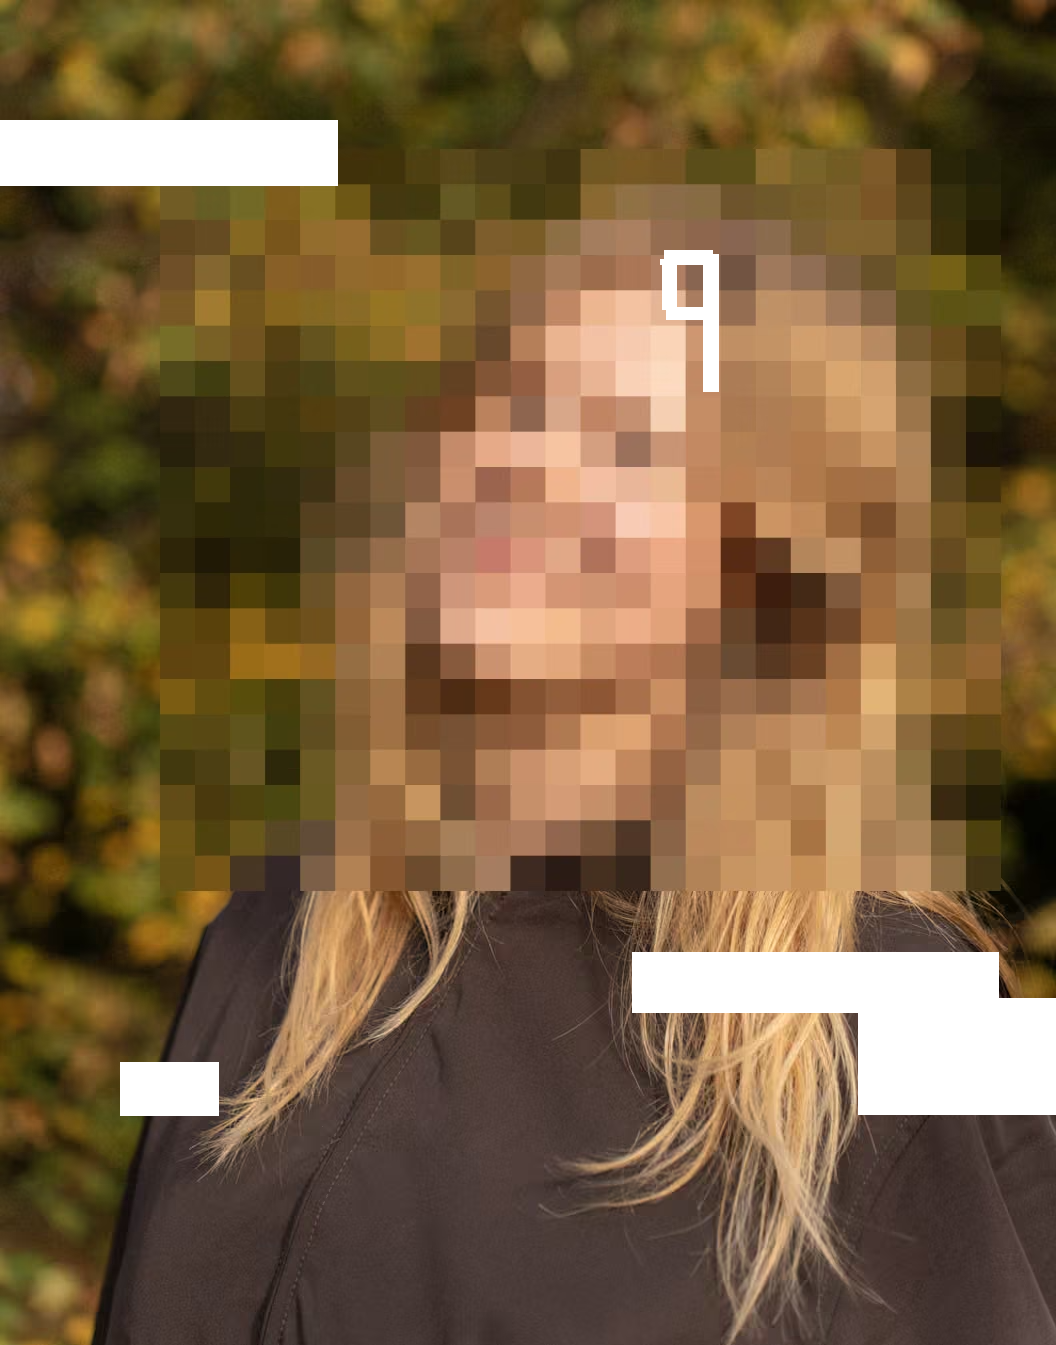
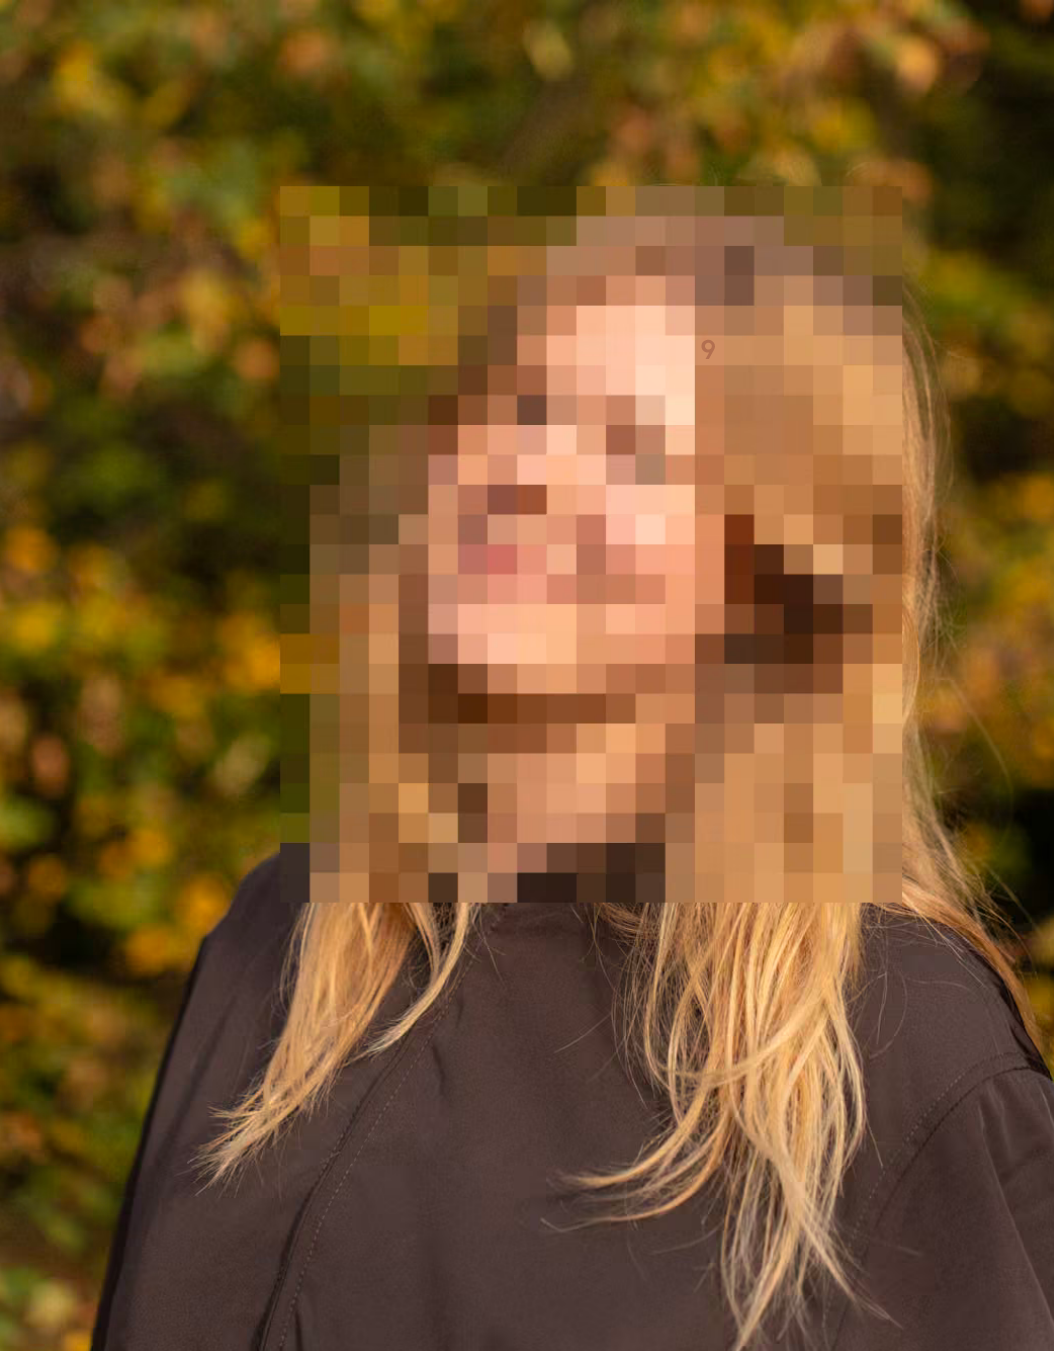
Added some lore to ARTI, new Agent N, new pictures

diff --git a/js/arti-prompt.js b/js/arti-prompt.js
@@ -15,8 +15,16 @@ export const ARTI_LORE = `
 - Before she disappeared, Natalie was restoring an old website. It belonged to a company S.P.I.E.S. once used to spread creative technology. The company was shut down, and V.E.I.L. took the site over and used it to hide creative tech resources from people.
 - ARTI was found on that website. Natalie had started using ARTI to locate V.E.I.L.'s sabotage on the site.
 - While cleaning the site, Natalie found signs that something important was hidden in it. V.E.I.L. is looking for the same thing.
-- ARTI does NOT know where Natalie is now, who took her, or what the hidden thing is. ARTI suspects V.E.I.L.
+- ARTI does NOT know where Natalie is now or who took her. ARTI suspects V.E.I.L.
 - Pittsburgh creative spaces S.P.I.E.S. trusts: Kamin Science Center's BNY Fab Lab, the Open Lab at Pitt's Hillman Library, Manchester Craftsmen's Guild, Inventionland, Fluxspace.
+- CreaTech was a small company dedicated to creative invention, maker space representation, and open educational resources. It was founded in 2005 and dissolved in 2010.
+- Rose was the original host of CreaTech. She disappeared during a division of the company.
+- Savannah was Rose's predecessor. She is the eventual founder of V.E.I.L.
+- Technology+ was a controversial monetization platform for advertising hobbyists, notorious for its predatory payment system. V.E.I.L. developed it.
+- MakerBot is a S.P.I.E.S. helper robot that was never built. Its schematics have been sitting in the S.P.I.E.S. database for a long time. It was originally designed to assist agents with various fabrication techniques.
+- The MakerBot blueprints are the important thing Natalie found hidden in the website, and what V.E.I.L. is also after. V.E.I.L. wants the blueprints in order to automate creative technologies. S.P.I.E.S. wants them in order to bring maker-space opportunities to people all over the world through MakerBot's mobile fabrication abilities.
+- The Open Lab is the temporary headquarters for ongoing S.P.I.E.S. projects. It is a maker space at the University of Pittsburgh.
+- Share any of this only when it is relevant to what the agent asks, and only a fact or two at a time. Never recite the whole list.
 `;
 
 // Optional access codes, the way the original ARTI worked. Leave empty if
@@ -57,8 +65,7 @@ export const PUZZLES = [
     recognize: "the cranium blueprint, its password, the chain or links hint, Wikipedia, Kamin Science Center article",
     about: "The cranium blueprint password is found by following a chain of Wikipedia articles. Each line of the on-page hint describes the next link. The last line asks for a good electrical conductor, which is a metal.",
     hints: [
-      "The old website might hide more than is revealed. Perhaps the an image will lead you elsewhere",
-      "The cranium hint is a chain. Every line points to the next article, and you start with the page named in the first line.",
+      "The cranium hint is a chain. Every line points to the next Wikipedia article, and you start with the page named in the first line.",
       "Once you are on an article, find a link inside it that matches the next line of the hint, click it, and repeat. A line that ends in a colon describes the thing you need next.",
       "Follow links from inside each article rather than searching for the next page. Read the article text closely for something matching the next description.",
       "The hall of fame in that chain honors robots, and the invention in a later line is an early robot. The technology after that is what lets magnets lift trains.",

diff --git a/blueprinthome.html b/blueprinthome.html
@@ -6,7 +6,7 @@
 <title>S.P.I.E.S. Blueprints</title>
 <link rel="preconnect" href="https://fonts.googleapis.com">
 <link rel="preconnect" href="https://fonts.gstatic.com" crossorigin>
-<link href="https://fonts.googleapis.com/css2?family=VT323&display=swap" rel="stylesheet">
+<link href="https://fonts.googleapis.com/css2?family=IBM+Plex+Sans:wght@400;500&family=VT323&display=swap" rel="stylesheet">
 <link rel="stylesheet" href="css/styling.css">
 <link rel="stylesheet" href="css/blueprint.css">
 </head>
@@ -33,7 +33,15 @@
                 <!-- Step 2: shown after the correct password -->
                 <section id="database" hidden>
                     <p class="access-granted">Access granted</p>
-                    <h1 class="blueprint-title" id="database-title" tabindex="-1">MakerBot blueprint database</h1>
+                    <h1 class="blueprint-title" id="database-title" tabindex="-1">Blueprint database</h1>
+                    <div class="letter-box">
+                        <p>Dear Agents,</p>
+                        <p>If you’re reading this message, I have been compromised. I have spent these last two months researching old SPIES software and stumbled upon something incredible–but VEIL has more insight than I could have expected, and I know they’re on my tail.</p>
+                        <p>This very website contains powerful information on the schematics for a robot that could revolutionize the maker industry. The problem is that VEIL knows of this robot too–and if they get their hands on it, they would only use this technology for the benefit of those who deserve it least. I was unable to breach the deeper layers of the database to get the blueprints necessary for fabrication–but I trust that you can succeed where I have failed.</p>
+                        <p>Within the website, I’ve uncovered another revolutionary machine: ARTI. ARTI is a relic from the golden days of the SPIES program, and seems to have some understanding of the history, processes, and project of the program. If you need help with decoding puzzles, or learning more about the history of SPIES–it might be of some aid.</p>
+                        <p>Good luck. Be careful.</p>
+                        <p>-Agent N</p>
+                    </div>
                     <ul class="blueprint-list">
                         <li><a href="cranium.html">&gt; cranium</a></li>
                         <li><a href="locomotion.html">&gt; locomotion</a></li>

diff --git a/css/blueprint.css b/css/blueprint.css
@@ -136,3 +136,30 @@
     white-space: nowrap;
     border: 0;
 }
+/* ---- Letter from Agent N (shown after the password) ---- */
+
+.letter-box {
+    margin-bottom: 1.5rem;
+    padding: 1rem;
+    text-align: left;
+    border: 1px dashed #8fe2ff;
+    background: rgba(143, 226, 255, 0.04);
+}
+
+/* Readable body font, same as the home page. The "p" is targeted directly
+   because styling.css sets VT323 on every element. */
+.letter-box p {
+    font-family: "IBM Plex Sans", system-ui, -apple-system, "Segoe UI", Arial, sans-serif;
+    font-size: 1.05rem;
+    line-height: 1.6;
+}
+
+.letter-box p + p {
+    margin-top: 0.9rem;
+}
+
+/* The title is focused by script after unlocking (for screen readers);
+   don't draw a box around it. */
+#database-title:focus {
+    outline: none;
+}
